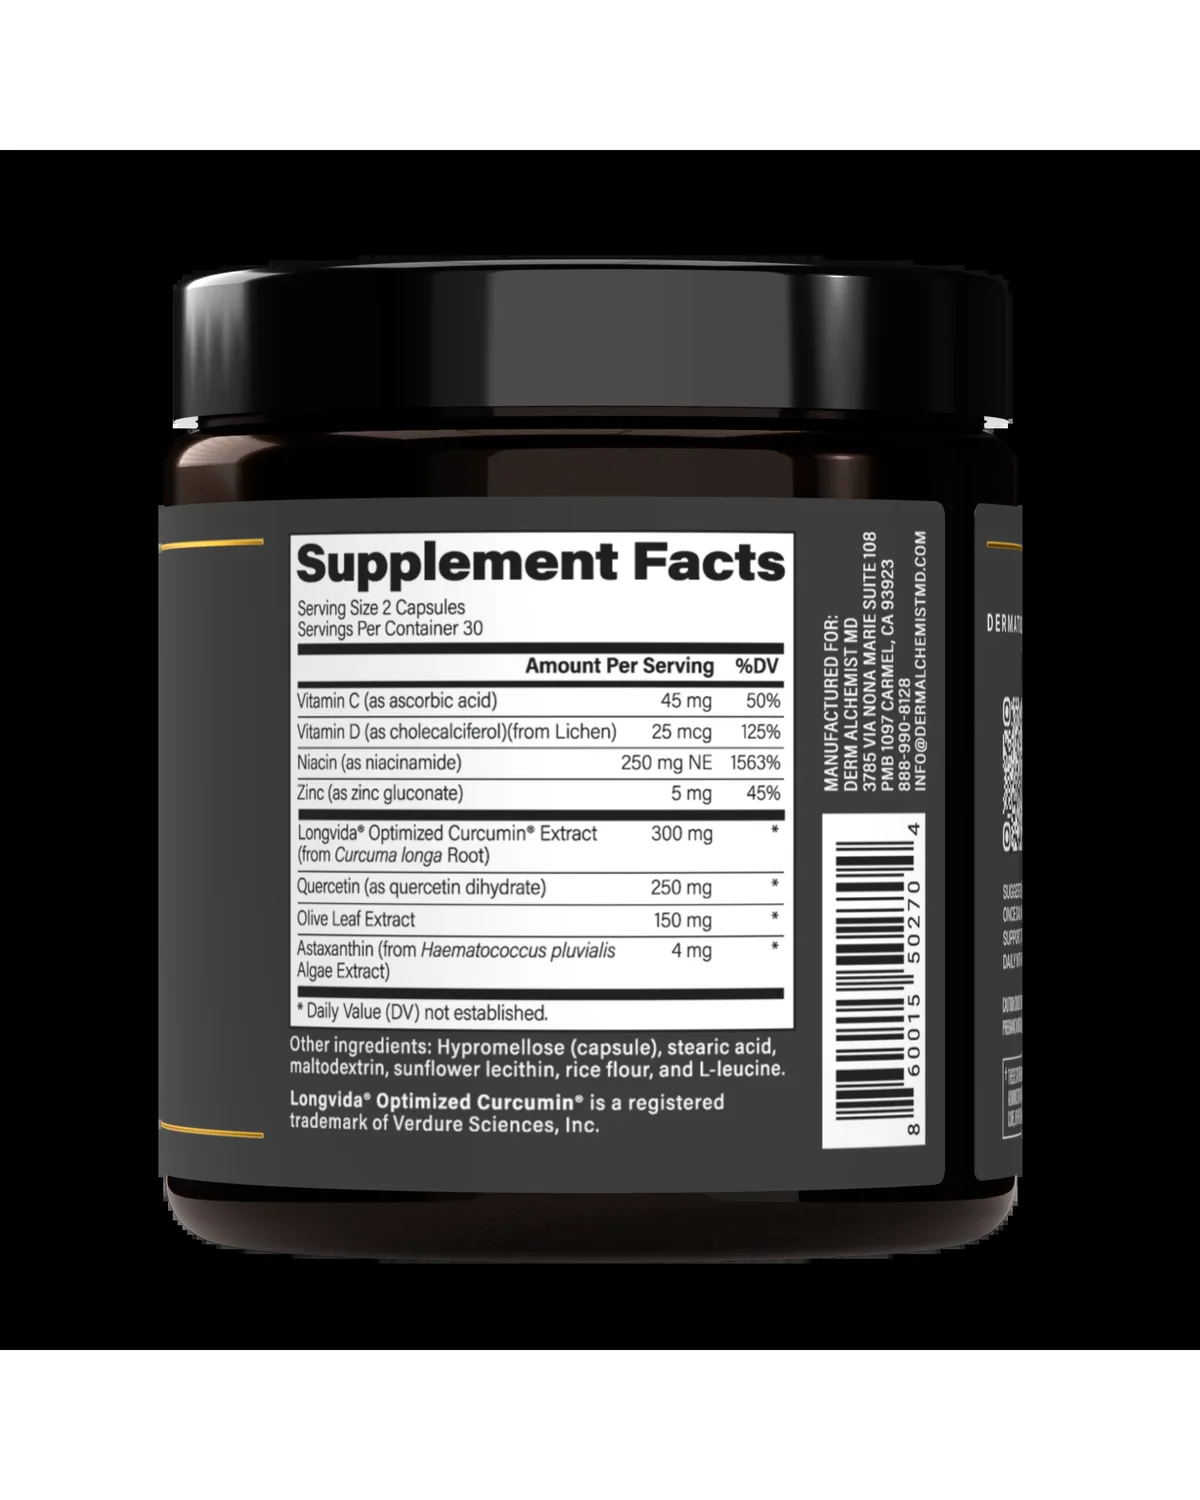
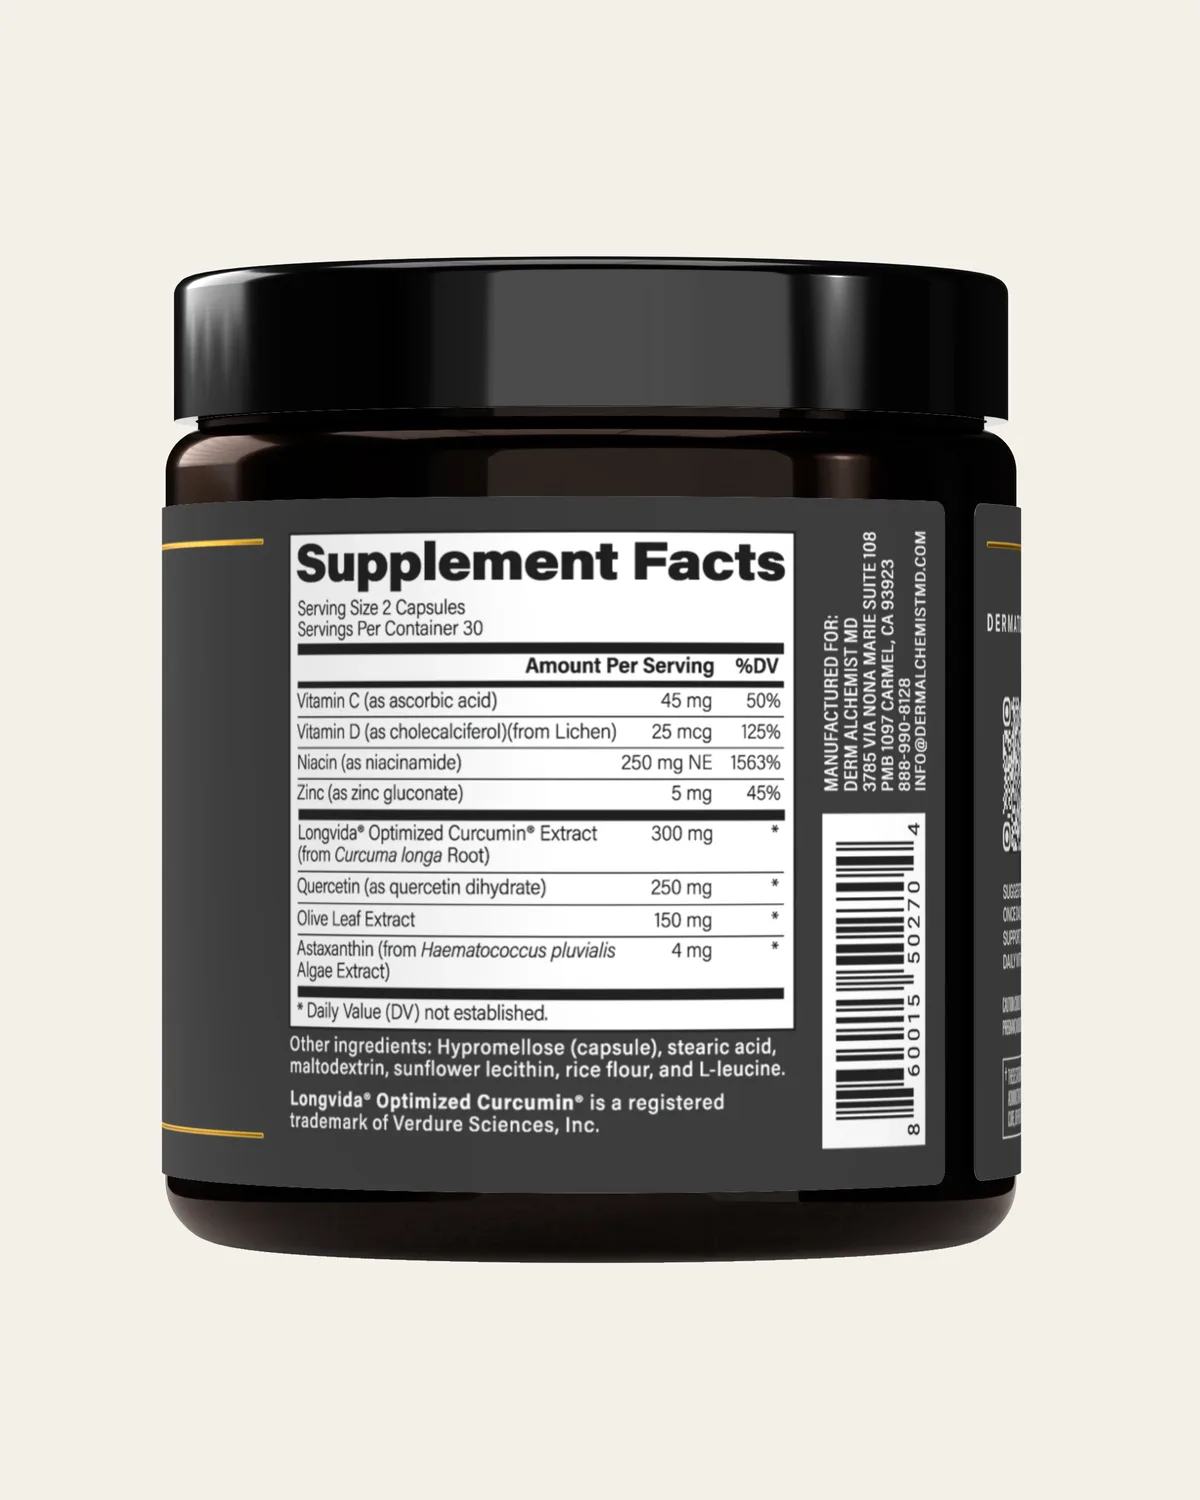
Rebuild product galleries: render, angle views, 3 benefit slides, lifestyle images
Claude-Session: https://claude.ai/code/session_01MgaF6EDRU73ckStp9JY6YT

diff --git a/docs/HANDOFF.md b/docs/HANDOFF.md
@@ -432,3 +432,4 @@ Held for owner decision: daily-total/enhanced naming, melanoma line, bundle rena
 - Address/email mismatches to resolve: Contact policy says Redlands CA and info@dermalchemistmd.com (typo'd in places); product labels say Carmel CA; store contact email is info@alchemiamd.com.
 - Subscription Terms and SMS Terms pages written and published (drafts: docs/policy-drafts/). Skin Edu topic links now only render when that tag has articles (otherwise 'Coming soon') so no tag page can 404. Footer, nav and template links audited against Shopify pages, collections, products, blogs and policies.
 - Addresses (Oct 31): returns go to BoxSup Fulfillment, 8141 N I 70 Frntg Rd, Unit 2, Arvada, CO 80002 (refund draft updated; shipping page says orders ship from Colorado). Mailing address (not for returns) = 3785 Via Nona Marie, Suite 108, PMB 1097, Carmel, CA 93923, matching the theme's mailing_address setting and the jar labels. Shipping, subscription and SMS pages updated to match. Refund policy text still has to be pasted into Shopify admin.
+- Product galleries rebuilt to Heather's order: 3D render, 3 label angle views (single products), 3 benefit slides, 1-2 lifestyle images. New pdp-main settings 'angle_assets' and 'media_order' (which Shopify images show, by position). Angle shots re-exported on a cream background (the sources had transparency, which had turned black). Bundles have no angle shots yet.
